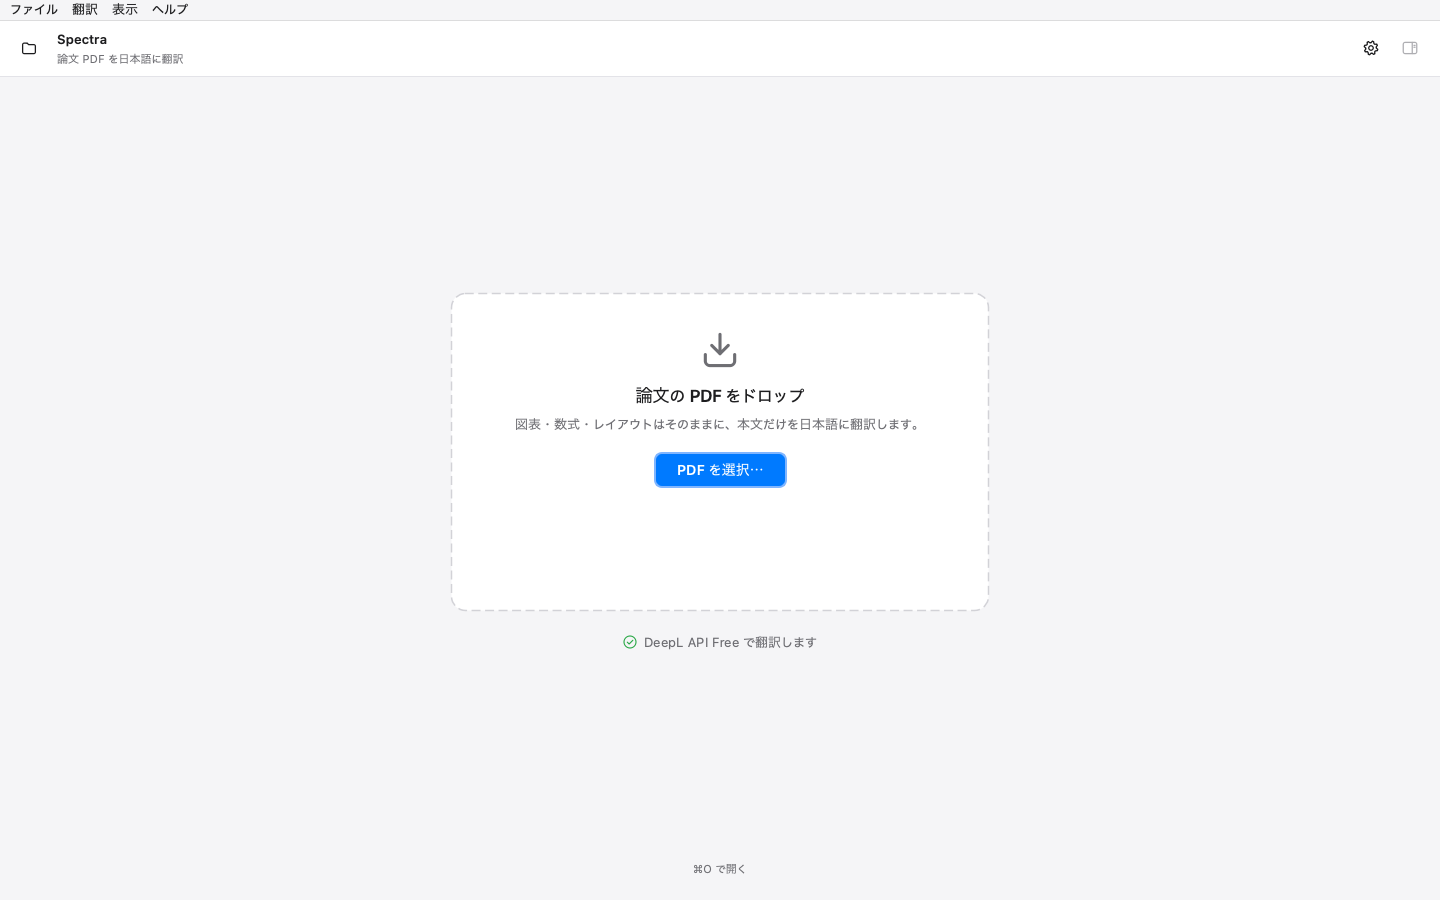
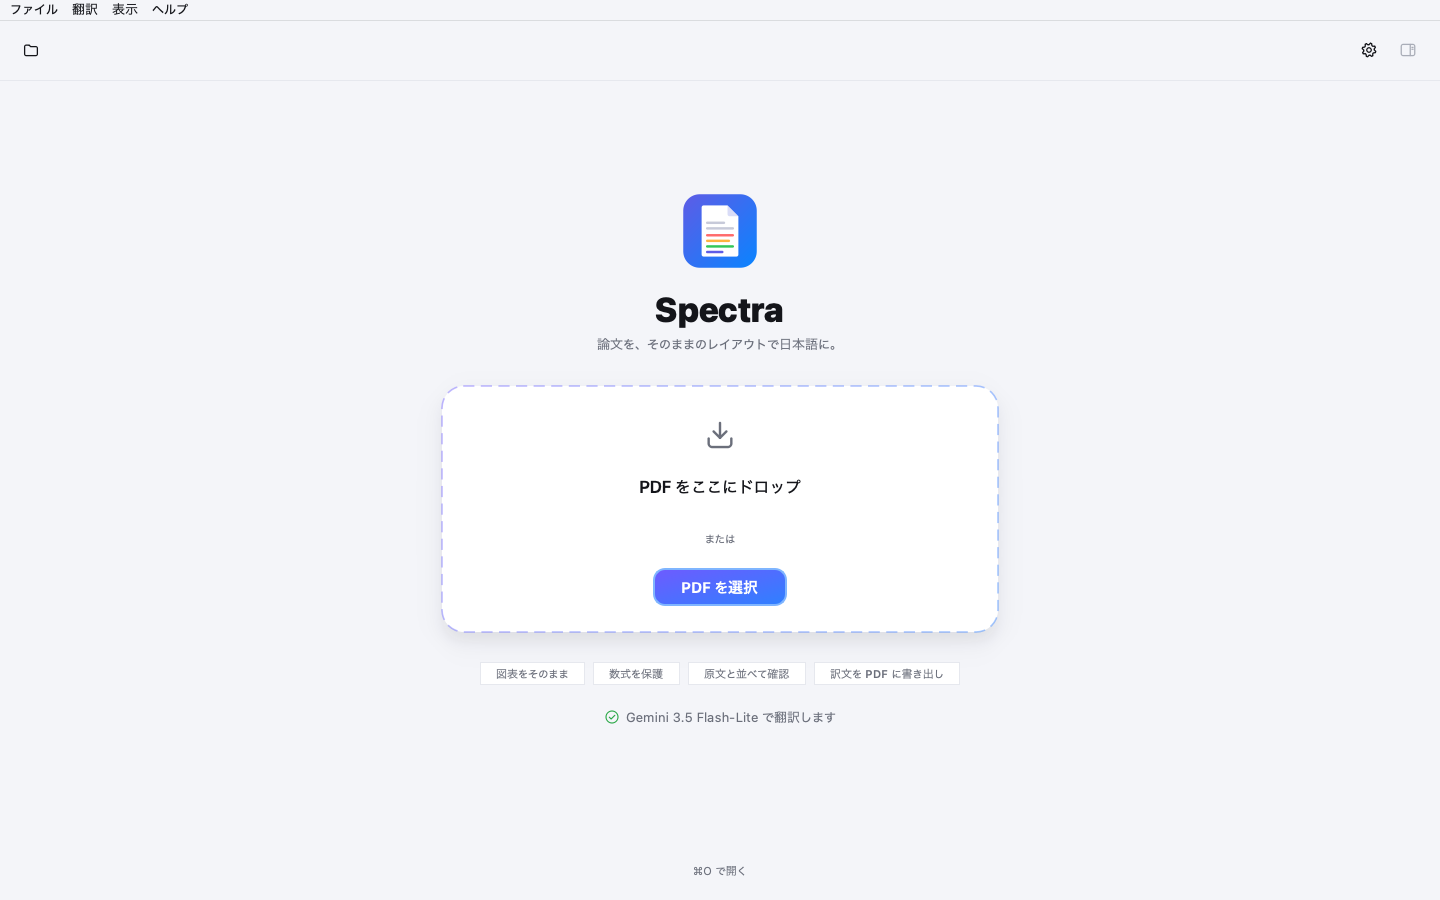
chore(release): v0.1.0
- Rewrite README for the current app (Gemini, export formats, bundled
  Noto Sans JP, how layout preservation works, FAQ)
- Refresh screenshots from the original demo paper
- Curate the changelog for the first release
- Build macOS for Apple silicon only (macos-13 runners are retired)

diff --git a/CHANGELOG.md b/CHANGELOG.md
@@ -7,39 +7,39 @@
 
 ## [Unreleased]
 
-### 追加
-- 論文 PDF の解析：本文・見出し・キャプション・脚注の判別、図・表・数式・著者・参考文献の除外
-- インライン数式・上付き/下付き・引用番号の保護（プレースホルダ化）
-- 段・ページを跨いで分割された段落の結合
-- 翻訳エンジン：Gemini API（無料枠）。論文翻訳用の指示と JSON の構造化出力で、数式タグの保持と段落の対応を確認する
-  - モデル：Gemini 3.5 Flash-Lite（既定）/ 3.1 Flash-Lite / 3.5 Flash / 3.6 Flash / 3.7 Flash / 3.8 Flash（非推奨）
-  - 混雑・回数の上限・提供終了のときは、他の軽量なモデルへ自動で切り替えて続きを翻訳（3.8 Flash には切り替えない）
-  - 無料枠の 1 分あたりの上限では指定時間だけ待って自動で再開、1 日の上限では翻訳できた分だけで PDF を作成可能
-  - 安全フィルタなどで訳せなかった段落は、原文のまま一切変更しない
-- 翻訳キャッシュ（同じ文を再翻訳しても無料枠を消費しない）
-- 日本語組版エンジン（禁則処理・和欧間スペース・両端揃え・字下げ・自動縮小・段跨ぎの流し込み）
-- インライン数式の 2 次元配置と、根号・分数の線の再配置
-- 出力形式：翻訳のみ / 左右対訳 / 交互対訳
-- レイアウト保持の自動検査（画像・図形数、翻訳対象外テキスト、図表の画素比較）
-- 無料枠を使い切った場合に、翻訳できた段落だけで PDF を作成する機能
-- 設定の保存、API キーの OS 資格情報ストアへの保管
-- Noto Serif JP / Noto Sans JP のワンクリックダウンロード（太字の見出しに対応）
-- コマンドラインツール（`spectra translate` / `estimate` / `key`）
-- デスクトップアプリ（Apple Human Interface Guidelines を参考にしたデザイン）
-  - ドラッグ＆ドロップで PDF を開く、原文と訳文を並べたプレビュー（スクロール・ズーム同期）
-  - インスペクタでの出力形式・ページ範囲・翻訳対象の設定と、翻訳前の文字数見積もり
-  - API キーの入力・接続確認・今月の使用量表示
-  - ライト / ダーク / 自動の外観、キーボードショートカット
-- PDF の書き出し画面：形式（翻訳のみ / 左右に対訳 / ページごとに対訳）を図付きのカードで選び、再翻訳なしで何度でも書き出せる
-- 行間の広い原稿形式の論文や、見出しが段落の先頭にある論文（Abstract など）への対応
-- 出版社ごとのレイアウトへの対応（Elsevier・A&A・AAS・AGU/Wiley・Springer・IEEE の 20 本で検証）
-  - 雑誌名・ロゴ・字間を空けた見出し・ページ上下の柱・擬似コード・数式の断片の判定
-  - 図形の多いページ（散布図など）の高速化、翻訳後のファイルサイズを元とほぼ同じに
-- 段落中の数式を、元の論文の字形・分数の線・記号のまま新しい位置へ配置（Δ などの記号も正しく表示）
-- 分数で 1 行が分断された段落の結合、訳文の段落どうしが重ならないことの保証
-- 日本語の字形の Noto Sans JP を同梱して標準フォントに（中国語風の漢字の字形を解消）
-- 括弧まわりの表記の整形（括弧内の余分な空白、英数字だけを囲む括弧は半角）
-- 段落の中の太字（段落先頭の小見出しや「Fig. 1.」など）を、訳文でも対応する語を太字で組む
-- リリース時のコード署名：macOS は Developer ID 署名と公証、Windows は SignPath による署名（設定方法は docs/CODE_SIGNING.md）
+## [0.1.0] - 2026-10-10
 
-[Unreleased]: https://github.com/myuto2490/Spectra/commits/develop
+初めての公開版です。
+
+### 追加
+
+**レイアウトを保った翻訳**
+- 論文 PDF の本文・見出し・キャプション・脚注だけを日本語に置き換え、ページ構成・図・表・数式・著者情報はそのまま残す
+- 図（画像・ベクター図形）、表、独立した数式、著者・所属、参考文献、ページ上下の柱、擬似コードを自動で判別して翻訳対象から除外
+- 段・ページを跨いで分割された段落、行間の広い原稿形式の論文、分数で 1 行が分断された段落にも対応
+- 段落の中の数式は、元の論文の字形・分数の線・記号のまま新しい位置へ配置
+- 段落の中の太字（段落先頭の小見出しや「Fig. 1.」など）は訳文でも対応する語を太字に
+- 日本語の組版：禁則処理、和欧間の空き、両端揃え、字下げ、枠に収まらない段落の自動縮小
+- 日本語の字形の Noto Sans JP を同梱（明朝体の Noto Serif JP も選択可）
+- 翻訳後の自動検査：画像・図形・翻訳対象外の文字が失われていないこと、図表の見た目が変わっていないこと
+
+**翻訳エンジン（Gemini API）**
+- Google AI Studio で発行した API キーで、無料枠で利用可能
+- 論文翻訳用の指示（である調 / です・ます調、専門用語、定型の見出しの訳語）と、件数・順序を確認できる構造化出力
+- モデル：Gemini 3.5 Flash-Lite（既定）/ 3.1 Flash-Lite / 3.5 Flash / 3.6 Flash / 3.7 Flash / 3.8 Flash（非推奨）
+- 混雑や無料枠の上限で止まったときは、軽量なモデルへ自動で切り替えて続きを翻訳
+- 翻訳キャッシュ：同じ段落を訳し直しても無料枠を消費しない
+- 1 日の上限に達した場合も、翻訳できた段落だけで PDF を作成できる（残りは原文のまま）
+
+**デスクトップアプリ**（Windows / macOS / Linux）
+- ドラッグ＆ドロップで PDF を開き、原文と訳文を並べて確認（スクロール・ズームを同期）
+- 書き出し：翻訳のみ / 左右に対訳 / ページごとに対訳。再翻訳なしで何度でも別の形式で書き出せる
+- 翻訳前の段落数・文字数の見積もり、ページ範囲・キャプション・脚注・参考文献の指定
+- API キーは OS の資格情報ストア（macOS キーチェーンなど）に保存
+- ライト / ダーク / 自動の外観、キーボードショートカット
+
+**コマンドラインツール**
+- `spectra translate` / `spectra estimate` / `spectra key`
+
+[Unreleased]: https://github.com/myuto2490/Spectra/compare/v0.1.0...HEAD
+[0.1.0]: https://github.com/myuto2490/Spectra/releases/tag/v0.1.0
